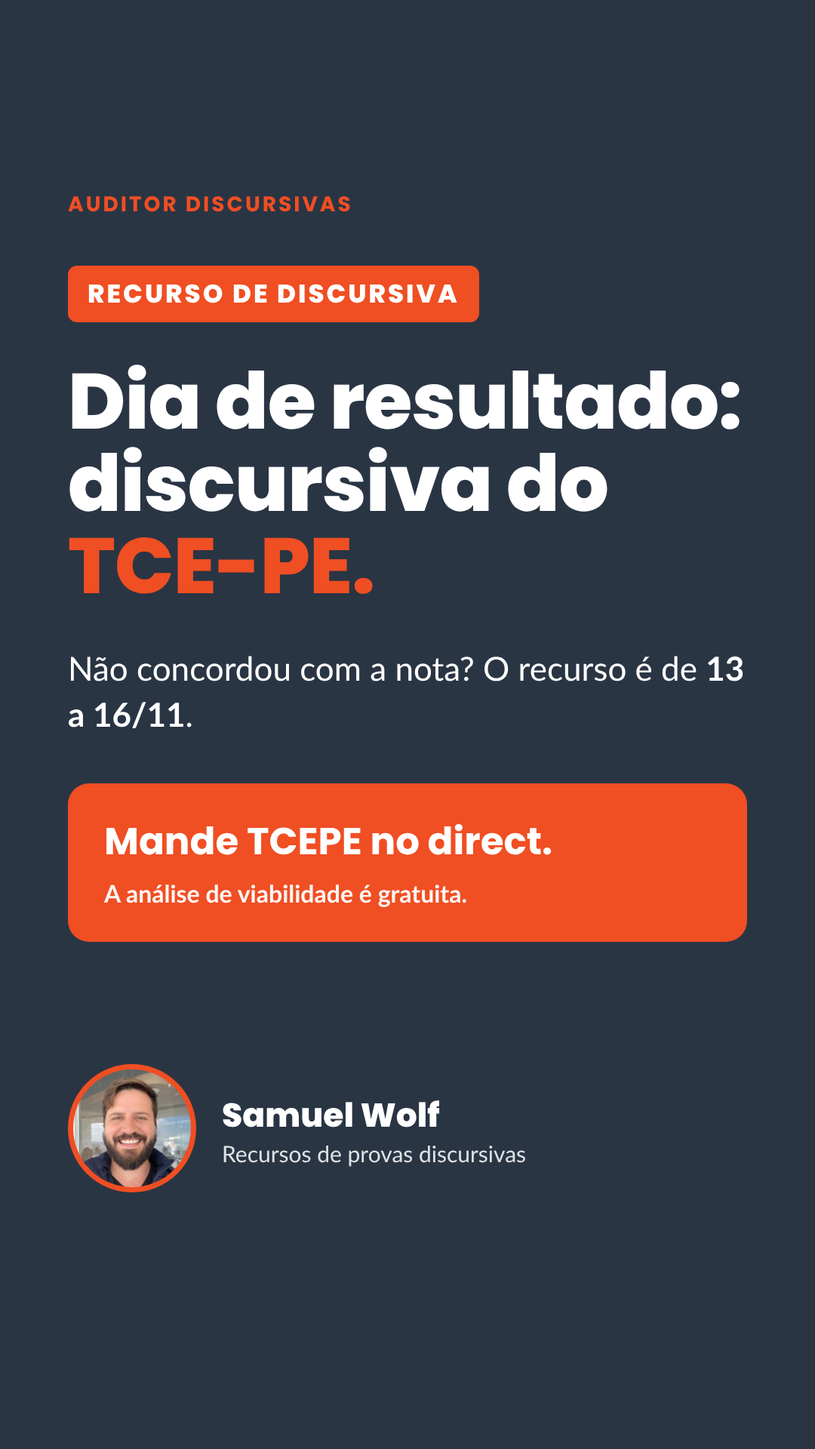
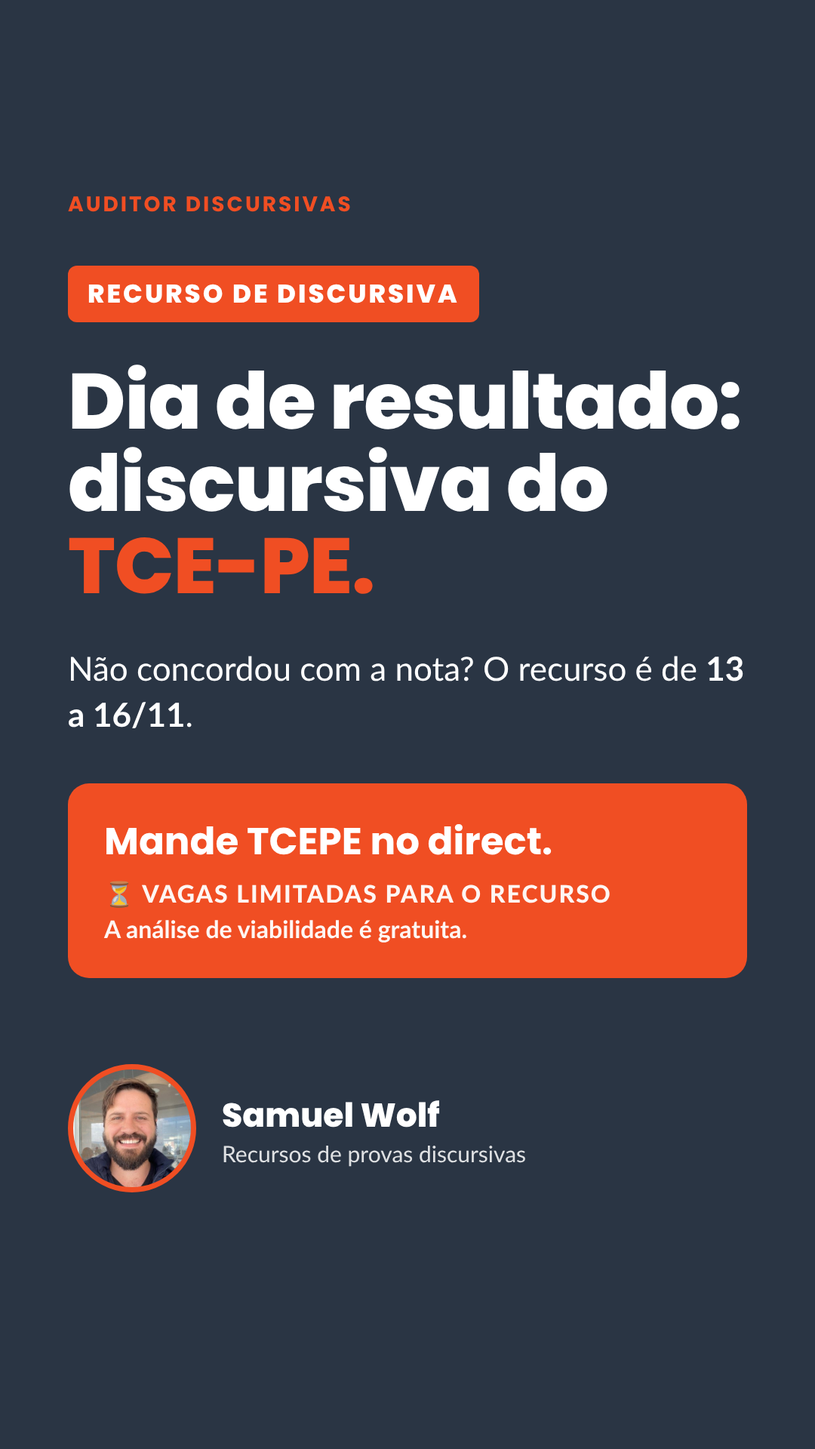
TCE-PE D-7/D-1/D: vagas limitadas para o recurso (Samuel, 02/11)
Claude-Session: https://claude.ai/code/session_01DzGKEj4kViGeh2DgZ7c7i9

Changed region(s): [[0.0611, 0.5938, 0.9167, 0.6875]]

diff --git a/fontes/campanha-recurso-tcepe-d7-d1-d/carrossel_d.html b/fontes/campanha-recurso-tcepe-d7-d1-d/carrossel_d.html
@@ -54,4 +54,4 @@ p.mid{font-size:38px;line-height:1.45}
 .st.claro{background:var(--creme);color:var(--navy)}
 .st.claro .op.a{background:#fff;color:var(--navy);border:3px solid var(--navy)}
 .s.claro .cred{opacity:1}
-</style></head><body><section class="s navy"><div class="top"><span class="wm">AUDITOR DISCURSIVAS</span><span class="ct">01 / 04</span></div><div class="sp"></div><div class="selo">RECURSO DE DISCURSIVA</div><h1>Não concorda com a nota da sua discursiva do <em>TCE-PE?</em></h1><div class="chips"><span class="chip">TCE-PE</span><span class="chip">FGV</span><span class="chip">Recurso 13 a 16/11</span></div><p class="big"><b>Você ainda tem chance.</b> O recurso vai de 13 a 16/11.</p><div class="sp"></div><div class="rod"><span>@auditor_discursivas</span><span class="sv">Arraste →</span></div></section><section class="s claro" style="justify-content:center"><div class="top"><span class="wm">AUDITOR DISCURSIVAS</span><span class="ct">02 / 04</span></div><h2>Como funciona <em>comigo</em></h2><ul class="lista"><li><span class="num">1</span><span>Você me manda <b>TCEPE</b>, o cargo e a sua nota de cada item</span></li><li><span class="num">2</span><span>Faço a <b>análise de viabilidade gratuita</b>: sua resposta × espelho</span></li><li><span class="num">3</span><span>Se houver fundamento, eu <b>redijo o recurso</b> item por item, dentro do prazo</span></li></ul><div class="card">Questão discursiva: <b>R$ 350</b> · Peça técnica: <b>R$ 700</b>. A análise de viabilidade é gratuita.</div><div class="rod"><span>@auditor_discursivas</span><span class="sv">Salvar →</span></div></section><section class="s claro" style="justify-content:center"><div class="top"><span class="wm">AUDITOR DISCURSIVAS</span><span class="ct">03 / 04</span></div><h2>4 dias, com <em>fim de semana</em> no meio</h2><div class="tl"><div class="ev"><span class="k">sex 13/11</span><span>Abre o recurso</span></div><div class="ev"><span class="k">sáb 14 e dom 15</span><span>Prazo correndo</span></div><div class="ev d"><span class="k">seg 16/11</span><span><b>Último dia</b></span></div></div><div class="card"><b>Quanto antes você mandar, mais tempo para fundamentar.</b> Depois de 16/11, essa correção não se discute mais.</div><div class="rod"><span>@auditor_discursivas</span><span class="sv">Salvar →</span></div></section><section class="s claro"><div class="top"><span class="wm">AUDITOR DISCURSIVAS</span><span class="ct">04 / 04</span></div><div class="sp"></div><h2>Ponto recuperado é <em>ponto na classificação.</em></h2><p class="big" style="margin:44px 0 52px">Mande agora e eu te digo se o seu recurso tem fundamento.</p><div class="box">Comente TCEPE<small>ou mande <b>TCEPE</b> no direct. A análise de viabilidade é gratuita.</small></div><div class="sp"></div><div class="autor" style="margin-top:0;align-items:center"><div class="foto" style="flex:0 0 190px;width:190px;height:190px"></div><div><b>Samuel Wolf</b><span style="display:block;color:var(--lar);opacity:1;font-weight:700;margin:4px 0 14px">Recursos de provas discursivas</span><ul class="cred"><li>✔ Engenheiro pelo ITA</li><li>✔ Auditor de Controle Externo do TCE-RJ</li><li>✔ Nomeado Auditor Fiscal da SEFAZ-RS</li><li>✔ Nomeado Auditor Fiscal da SEFIN Manaus</li></ul></div></div><div class="rod"><span>@auditor_discursivas</span><span></span></div></section><section class="st navy"><div class="wm">AUDITOR DISCURSIVAS</div><div class="selo">RECURSO DE DISCURSIVA</div><h1 style="font-size:104px">Dia de resultado: discursiva do <em>TCE-PE.</em></h1><p class="big" style="margin:50px 0 60px">Não concordou com a nota? O recurso é de <b>13 a 16/11</b>.</p><div class="box">Mande TCEPE no direct.<small>A análise de viabilidade é gratuita.</small></div><div class="autor"><div class="foto"></div><div><b>Samuel Wolf</b><span>Recursos de provas discursivas</span></div></div></section><section class="st claro"><div class="wm">AUDITOR DISCURSIVAS</div><div class="selo">RECURSO TCE-PE</div><p class="big">Recurso aberto até segunda</p><div class="big-n">16/11</div><p class="big" style="margin:30px 0 60px">Quanto antes, mais tempo para fundamentar.</p><div class="box">Mande TCEPE no direct.<small>A análise de viabilidade é gratuita.</small></div></section><section class="st claro"><div class="wm">AUDITOR DISCURSIVAS</div><div class="selo">RECURSO TCE-PE</div><p class="big">Faltam</p><div class="big-n">3 dias</div><p class="big" style="margin:30px 0 60px">O prazo termina segunda, 16/11.</p><div class="box">Mande TCEPE no direct.<small>A análise de viabilidade é gratuita.</small></div></section><section class="st claro"><div class="wm">AUDITOR DISCURSIVAS</div><div class="selo">RECURSO TCE-PE</div><p class="big">Faltam</p><div class="big-n">2 dias</div><p class="big" style="margin:30px 0 60px">Recurso bom aponta a linha da sua folha que atende ao critério do espelho.</p><div class="box">Mande TCEPE no direct.<small>A análise de viabilidade é gratuita.</small></div></section><section class="st claro"><div class="wm">AUDITOR DISCURSIVAS</div><div class="selo">RECURSO TCE-PE</div><div class="big-n" style="font-size:200px">Último dia</div><p class="big" style="margin:30px 0 60px">O recurso da discursiva do TCE-PE termina <b>hoje</b>.</p><div class="box">Mande TCEPE no direct.<small>A análise de viabilidade é gratuita.</small></div><div class="autor"><div class="foto"></div><div><b>Samuel Wolf</b><span>Recursos de provas discursivas</span></div></div></section></body></html>
+</style></head><body><section class="s navy"><div class="top"><span class="wm">AUDITOR DISCURSIVAS</span><span class="ct">01 / 04</span></div><div class="sp"></div><div class="selo">RECURSO DE DISCURSIVA</div><h1>Não concorda com a nota da sua discursiva do <em>TCE-PE?</em></h1><div class="chips"><span class="chip">TCE-PE</span><span class="chip">FGV</span><span class="chip">Recurso 13 a 16/11</span></div><p class="big"><b>Você ainda tem chance.</b> O recurso vai de 13 a 16/11.</p><div class="sp"></div><div class="rod"><span>@auditor_discursivas</span><span class="sv">Arraste →</span></div></section><section class="s claro" style="justify-content:center"><div class="top"><span class="wm">AUDITOR DISCURSIVAS</span><span class="ct">02 / 04</span></div><h2>Como funciona <em>comigo</em></h2><ul class="lista"><li><span class="num">1</span><span>Você me manda <b>TCEPE</b>, o cargo e a sua nota de cada item</span></li><li><span class="num">2</span><span>Faço a <b>análise de viabilidade gratuita</b>: sua resposta × espelho</span></li><li><span class="num">3</span><span>Se houver fundamento, eu <b>redijo o recurso</b> item por item, dentro do prazo</span></li></ul><div class="card">Questão discursiva: <b>R$ 350</b> · Peça técnica: <b>R$ 700</b>. A análise de viabilidade é gratuita.</div><div class="rod"><span>@auditor_discursivas</span><span class="sv">Salvar →</span></div></section><section class="s claro" style="justify-content:center"><div class="top"><span class="wm">AUDITOR DISCURSIVAS</span><span class="ct">03 / 04</span></div><h2>4 dias, com <em>fim de semana</em> no meio</h2><div class="tl"><div class="ev"><span class="k">sex 13/11</span><span>Abre o recurso</span></div><div class="ev"><span class="k">sáb 14 e dom 15</span><span>Prazo correndo</span></div><div class="ev d"><span class="k">seg 16/11</span><span><b>Último dia</b></span></div></div><div class="card"><b>Quanto antes você mandar, mais tempo para fundamentar.</b> Depois de 16/11, essa correção não se discute mais.</div><div class="rod"><span>@auditor_discursivas</span><span class="sv">Salvar →</span></div></section><section class="s claro"><div class="top"><span class="wm">AUDITOR DISCURSIVAS</span><span class="ct">04 / 04</span></div><div class="sp"></div><h2>Ponto recuperado é <em>ponto na classificação.</em></h2><p class="big" style="margin:44px 0 52px">Mande agora e eu te digo se o seu recurso tem fundamento.</p><div class="box">Comente TCEPE<small><span style="display:block;font-weight:900;letter-spacing:2px;margin:4px 0 6px">⏳ VAGAS LIMITADAS PARA O RECURSO</span>ou mande <b>TCEPE</b> no direct. A análise de viabilidade é gratuita.</small></div><div class="sp"></div><div class="autor" style="margin-top:0;align-items:center"><div class="foto" style="flex:0 0 190px;width:190px;height:190px"></div><div><b>Samuel Wolf</b><span style="display:block;color:var(--lar);opacity:1;font-weight:700;margin:4px 0 14px">Recursos de provas discursivas</span><ul class="cred"><li>✔ Engenheiro pelo ITA</li><li>✔ Auditor de Controle Externo do TCE-RJ</li><li>✔ Nomeado Auditor Fiscal da SEFAZ-RS</li><li>✔ Nomeado Auditor Fiscal da SEFIN Manaus</li></ul></div></div><div class="rod"><span>@auditor_discursivas</span><span></span></div></section><section class="st navy"><div class="wm">AUDITOR DISCURSIVAS</div><div class="selo">RECURSO DE DISCURSIVA</div><h1 style="font-size:104px">Dia de resultado: discursiva do <em>TCE-PE.</em></h1><p class="big" style="margin:50px 0 60px">Não concordou com a nota? O recurso é de <b>13 a 16/11</b>.</p><div class="box">Mande TCEPE no direct.<small><span style="display:block;font-weight:900;letter-spacing:2px;margin:4px 0 6px">⏳ VAGAS LIMITADAS PARA O RECURSO</span>A análise de viabilidade é gratuita.</small></div><div class="autor"><div class="foto"></div><div><b>Samuel Wolf</b><span>Recursos de provas discursivas</span></div></div></section><section class="st claro"><div class="wm">AUDITOR DISCURSIVAS</div><div class="selo">RECURSO TCE-PE</div><p class="big">Recurso aberto até segunda</p><div class="big-n">16/11</div><p class="big" style="margin:30px 0 60px">Quanto antes, mais tempo para fundamentar.</p><div class="box">Mande TCEPE no direct.<small><span style="display:block;font-weight:900;letter-spacing:2px;margin:4px 0 6px">⏳ VAGAS LIMITADAS PARA O RECURSO</span>A análise de viabilidade é gratuita.</small></div></section><section class="st claro"><div class="wm">AUDITOR DISCURSIVAS</div><div class="selo">RECURSO TCE-PE</div><p class="big">Faltam</p><div class="big-n">3 dias</div><p class="big" style="margin:30px 0 60px">O prazo termina segunda, 16/11.</p><div class="box">Mande TCEPE no direct.<small><span style="display:block;font-weight:900;letter-spacing:2px;margin:4px 0 6px">⏳ VAGAS LIMITADAS PARA O RECURSO</span>A análise de viabilidade é gratuita.</small></div></section><section class="st claro"><div class="wm">AUDITOR DISCURSIVAS</div><div class="selo">RECURSO TCE-PE</div><p class="big">Faltam</p><div class="big-n">2 dias</div><p class="big" style="margin:30px 0 60px">Recurso bom aponta a linha da sua folha que atende ao critério do espelho.</p><div class="box">Mande TCEPE no direct.<small><span style="display:block;font-weight:900;letter-spacing:2px;margin:4px 0 6px">⏳ VAGAS LIMITADAS PARA O RECURSO</span>A análise de viabilidade é gratuita.</small></div></section><section class="st claro"><div class="wm">AUDITOR DISCURSIVAS</div><div class="selo">RECURSO TCE-PE</div><div class="big-n" style="font-size:170px">Último dia</div><p class="big" style="margin:30px 0 60px">O recurso da discursiva do TCE-PE termina <b>hoje</b>.</p><div class="box">Mande TCEPE no direct.<small><span style="display:block;font-weight:900;letter-spacing:2px;margin:4px 0 6px">⏳ VAGAS LIMITADAS PARA O RECURSO</span>A análise de viabilidade é gratuita.</small></div><div class="autor"><div class="foto"></div><div><b>Samuel Wolf</b><span>Recursos de provas discursivas</span></div></div></section></body></html>

diff --git a/fontes/campanha-recurso-tcepe-d7-d1-d/carrossel_d7.html b/fontes/campanha-recurso-tcepe-d7-d1-d/carrossel_d7.html
@@ -54,4 +54,4 @@ p.mid{font-size:38px;line-height:1.45}
 .st.claro{background:var(--creme);color:var(--navy)}
 .st.claro .op.a{background:#fff;color:var(--navy);border:3px solid var(--navy)}
 .s.claro .cred{opacity:1}
-</style></head><body><section class="s navy"><div class="top"><span class="wm">AUDITOR DISCURSIVAS</span><span class="ct">01 / 04</span></div><div class="sp"></div><div class="selo">RECURSO DE DISCURSIVA</div><h1>TCE-PE: a nota da discursiva sai em <em>7 dias.</em></h1><div class="chips"><span class="chip">TCE-PE</span><span class="chip">FGV</span><span class="chip">Cargos reaplicados</span></div><p class="big">E o recurso só vale de <b>13 a 16/11</b>. Quem se prepara agora chega pronto.</p><div class="sp"></div><div class="rod"><span>@auditor_discursivas</span><span class="sv">Arraste →</span></div></section><section class="s claro" style="justify-content:center"><div class="top"><span class="wm">AUDITOR DISCURSIVAS</span><span class="ct">02 / 04</span></div><h2>Na FGV, a janela de recurso é <em>uma só.</em></h2><div class="tl"><div class="ev"><span class="k">12/11</span><span><b>Resultado preliminar</b> da discursiva</span></div><div class="ev d"><span class="k">13 a 16/11</span><span><b>Recurso</b> contra a nota da discursiva</span></div><div class="ev"><span class="k">08/12</span><span><b>Resultado definitivo</b> e resultado final</span></div></div><div class="card">Não há padrão preliminar com recurso próprio, como no Cebraspe. <b>Você vê a nota e recorre no mesmo prazo curto.</b></div><div class="rod"><span>@auditor_discursivas</span><span class="sv">Salvar →</span></div></section><section class="s claro" style="justify-content:center"><div class="top"><span class="wm">AUDITOR DISCURSIVAS</span><span class="ct">03 / 04</span></div><h2>Use esta semana para <em>adiantar o recurso</em></h2><ul class="lista"><li><span class="num">1</span><span>Leia no edital as <b>regras do recurso</b></span></li><li><span class="num">2</span><span>Liste as <b>normas, artigos e acórdãos</b> que você citou</span></li><li><span class="num">3</span><span>Reserve <b>13 a 16/11</b> na agenda</span></li></ul><div class="card"><b>Ponto recuperado no recurso vale tanto quanto questão acertada na objetiva.</b></div><div class="rod"><span>@auditor_discursivas</span><span class="sv">Salvar →</span></div></section><section class="s claro"><div class="top"><span class="wm">AUDITOR DISCURSIVAS</span><span class="ct">04 / 04</span></div><div class="sp"></div><h2>Quer chegar ao dia 13 <em>com o recurso encaminhado?</em></h2><p class="big" style="margin:44px 0 52px">Eu leio a sua resposta contra o espelho e digo se o recurso tem fundamento.</p><div class="box">Comente TCEPE<small>ou mande <b>TCEPE</b> no direct. A análise de viabilidade é gratuita.</small></div><div class="sp"></div><div class="autor" style="margin-top:0;align-items:center"><div class="foto" style="flex:0 0 190px;width:190px;height:190px"></div><div><b>Samuel Wolf</b><span style="display:block;color:var(--lar);opacity:1;font-weight:700;margin:4px 0 14px">Recursos de provas discursivas</span><ul class="cred"><li>✔ Engenheiro pelo ITA</li><li>✔ Auditor de Controle Externo do TCE-RJ</li><li>✔ Nomeado Auditor Fiscal da SEFAZ-RS</li><li>✔ Nomeado Auditor Fiscal da SEFIN Manaus</li></ul></div></div><div class="rod"><span>@auditor_discursivas</span><span></span></div></section><section class="st navy"><div class="wm">AUDITOR DISCURSIVAS</div><div class="selo">RECURSO DE DISCURSIVA</div><p class="big">Discursiva do TCE-PE</p><div class="big-n">7 dias</div><p class="big" style="margin:30px 0 60px">para a nota sair (12/11). O recurso é só de <b>13 a 16/11</b>.</p><div class="box">Mande TCEPE no direct.<small>A análise de viabilidade é gratuita.</small></div></section><section class="st claro"><div class="wm">AUDITOR DISCURSIVAS</div><h1 style="font-size:96px">Como você acha que foi na <em>discursiva do TCE-PE?</em></h1><div class="opt"><div class="op a">💪 Fui bem</div><div class="op b">😬 Posso precisar de recurso</div></div><p class="mid" style="margin-top:60px">Responda no direct com a sua opção. Se for a segunda, mande <b>TCEPE</b>.</p></section><section class="st claro"><div class="wm">AUDITOR DISCURSIVAS</div><h1 style="font-size:92px">Adiante o recurso <em>nesta semana</em></h1><ul class="lista"><li><span class="num">1</span><span>Leia as regras do recurso</span></li><li><span class="num">2</span><span>Liste as normas citadas</span></li><li><span class="num">3</span><span>Reserve 13 a 16/11</span></li></ul><div class="sp"></div><div class="box">Mande TCEPE no direct.<small>A análise de viabilidade é gratuita.</small></div><div class="autor"><div class="foto"></div><div><b>Samuel Wolf</b><span>Recursos de provas discursivas</span></div></div></section></body></html>
+</style></head><body><section class="s navy"><div class="top"><span class="wm">AUDITOR DISCURSIVAS</span><span class="ct">01 / 04</span></div><div class="sp"></div><div class="selo">RECURSO DE DISCURSIVA</div><h1>TCE-PE: a nota da discursiva sai em <em>7 dias.</em></h1><div class="chips"><span class="chip">TCE-PE</span><span class="chip">FGV</span><span class="chip">Cargos reaplicados</span></div><p class="big">E o recurso só vale de <b>13 a 16/11</b>. Quem se prepara agora chega pronto.</p><div class="sp"></div><div class="rod"><span>@auditor_discursivas</span><span class="sv">Arraste →</span></div></section><section class="s claro" style="justify-content:center"><div class="top"><span class="wm">AUDITOR DISCURSIVAS</span><span class="ct">02 / 04</span></div><h2>Na FGV, a janela de recurso é <em>uma só.</em></h2><div class="tl"><div class="ev"><span class="k">12/11</span><span><b>Resultado preliminar</b> da discursiva</span></div><div class="ev d"><span class="k">13 a 16/11</span><span><b>Recurso</b> contra a nota da discursiva</span></div><div class="ev"><span class="k">08/12</span><span><b>Resultado definitivo</b> e resultado final</span></div></div><div class="card">Não há padrão preliminar com recurso próprio, como no Cebraspe. <b>Você vê a nota e recorre no mesmo prazo curto.</b></div><div class="rod"><span>@auditor_discursivas</span><span class="sv">Salvar →</span></div></section><section class="s claro" style="justify-content:center"><div class="top"><span class="wm">AUDITOR DISCURSIVAS</span><span class="ct">03 / 04</span></div><h2>Use esta semana para <em>adiantar o recurso</em></h2><ul class="lista"><li><span class="num">1</span><span>Leia no edital as <b>regras do recurso</b></span></li><li><span class="num">2</span><span>Liste as <b>normas, artigos e acórdãos</b> que você citou</span></li><li><span class="num">3</span><span>Reserve <b>13 a 16/11</b> na agenda</span></li></ul><div class="card"><b>Ponto recuperado no recurso vale tanto quanto questão acertada na objetiva.</b></div><div class="rod"><span>@auditor_discursivas</span><span class="sv">Salvar →</span></div></section><section class="s claro"><div class="top"><span class="wm">AUDITOR DISCURSIVAS</span><span class="ct">04 / 04</span></div><div class="sp"></div><h2>Quer chegar ao dia 13 <em>com o recurso encaminhado?</em></h2><p class="big" style="margin:44px 0 52px">Eu leio a sua resposta contra o espelho e digo se o recurso tem fundamento.</p><div class="box">Comente TCEPE<small><span style="display:block;font-weight:900;letter-spacing:2px;margin:4px 0 6px">⏳ VAGAS LIMITADAS PARA O RECURSO</span>ou mande <b>TCEPE</b> no direct. A análise de viabilidade é gratuita.</small></div><div class="sp"></div><div class="autor" style="margin-top:0;align-items:center"><div class="foto" style="flex:0 0 190px;width:190px;height:190px"></div><div><b>Samuel Wolf</b><span style="display:block;color:var(--lar);opacity:1;font-weight:700;margin:4px 0 14px">Recursos de provas discursivas</span><ul class="cred"><li>✔ Engenheiro pelo ITA</li><li>✔ Auditor de Controle Externo do TCE-RJ</li><li>✔ Nomeado Auditor Fiscal da SEFAZ-RS</li><li>✔ Nomeado Auditor Fiscal da SEFIN Manaus</li></ul></div></div><div class="rod"><span>@auditor_discursivas</span><span></span></div></section><section class="st navy"><div class="wm">AUDITOR DISCURSIVAS</div><div class="selo">RECURSO DE DISCURSIVA</div><p class="big">Discursiva do TCE-PE</p><div class="big-n">7 dias</div><p class="big" style="margin:30px 0 60px">para a nota sair (12/11). O recurso é só de <b>13 a 16/11</b>.</p><div class="box">Mande TCEPE no direct.<small><span style="display:block;font-weight:900;letter-spacing:2px;margin:4px 0 6px">⏳ VAGAS LIMITADAS PARA O RECURSO</span>A análise de viabilidade é gratuita.</small></div></section><section class="st claro"><div class="wm">AUDITOR DISCURSIVAS</div><h1 style="font-size:96px">Como você acha que foi na <em>discursiva do TCE-PE?</em></h1><div class="opt"><div class="op a">💪 Fui bem</div><div class="op b">😬 Posso precisar de recurso</div></div><p class="mid" style="margin-top:60px">Responda no direct com a sua opção. Se for a segunda, mande <b>TCEPE</b>.</p></section><section class="st claro"><div class="wm">AUDITOR DISCURSIVAS</div><h1 style="font-size:92px">Adiante o recurso <em>nesta semana</em></h1><ul class="lista"><li><span class="num">1</span><span>Leia as regras do recurso</span></li><li><span class="num">2</span><span>Liste as normas citadas</span></li><li><span class="num">3</span><span>Reserve 13 a 16/11</span></li></ul><div class="sp"></div><div class="box">Mande TCEPE no direct.<small><span style="display:block;font-weight:900;letter-spacing:2px;margin:4px 0 6px">⏳ VAGAS LIMITADAS PARA O RECURSO</span>A análise de viabilidade é gratuita.</small></div><div class="autor"><div class="foto"></div><div><b>Samuel Wolf</b><span>Recursos de provas discursivas</span></div></div></section></body></html>

diff --git a/fontes/campanha-recurso-tcepe-d7-d1-d/carrossel_d1.html b/fontes/campanha-recurso-tcepe-d7-d1-d/carrossel_d1.html
@@ -54,4 +54,4 @@ p.mid{font-size:38px;line-height:1.45}
 .st.claro{background:var(--creme);color:var(--navy)}
 .st.claro .op.a{background:#fff;color:var(--navy);border:3px solid var(--navy)}
 .s.claro .cred{opacity:1}
-</style></head><body><section class="s navy"><div class="top"><span class="wm">AUDITOR DISCURSIVAS</span><span class="ct">01 / 04</span></div><div class="sp"></div><div class="selo">RECURSO DE DISCURSIVA</div><h1>TCE-PE: a nota da discursiva sai <em>amanhã.</em></h1><div class="chips"><span class="chip">TCE-PE</span><span class="chip">FGV</span><span class="chip">Recurso 13 a 16/11</span></div><p class="big">São só 4 dias de prazo. <b>Deixe tudo pronto hoje.</b></p><div class="sp"></div><div class="rod"><span>@auditor_discursivas</span><span class="sv">Arraste →</span></div></section><section class="s claro" style="justify-content:center"><div class="top"><span class="wm">AUDITOR DISCURSIVAS</span><span class="ct">02 / 04</span></div><h2>Checklist para <em>hoje</em></h2><ul class="lista"><li><span class="num">1</span><span>As <b>regras do recurso</b> no edital, já lidas</span></li><li><span class="num">2</span><span>As <b>normas e fundamentos</b> que você usou</span></li><li><span class="num">3</span><span><b>13 a 16/11</b> reservados na agenda</span></li></ul><div class="card">Quando a nota sair, compare <b>item por item</b> com o espelho da banca.</div><div class="rod"><span>@auditor_discursivas</span><span class="sv">Salvar →</span></div></section><section class="s claro" style="justify-content:center"><div class="top"><span class="wm">AUDITOR DISCURSIVAS</span><span class="ct">03 / 04</span></div><h2>Onde o recurso <em>tem argumento</em></h2><ul class="lista"><li><span class="num">1</span><span>Você <b>abordou o item</b> e ele veio zerado ou parcial</span></li><li><span class="num">2</span><span>Você usou <b>fundamento equivalente</b> ao do espelho</span></li><li><span class="num">3</span><span>Houve desconto de forma <b>sem erro identificável</b></span></li></ul><div class="card">Recurso bom não reclama da nota: <b>aponta a linha da sua folha que atende ao critério.</b></div><div class="rod"><span>@auditor_discursivas</span><span class="sv">Salvar →</span></div></section><section class="s claro"><div class="top"><span class="wm">AUDITOR DISCURSIVAS</span><span class="ct">04 / 04</span></div><div class="sp"></div><h2>Saiu e não concordou? <em>Fala comigo.</em></h2><p class="big" style="margin:44px 0 52px">A análise começa assim que você me mandar a sua nota.</p><div class="box">Comente TCEPE<small>ou mande <b>TCEPE</b> no direct. A análise de viabilidade é gratuita.</small></div><div class="sp"></div><div class="autor" style="margin-top:0;align-items:center"><div class="foto" style="flex:0 0 190px;width:190px;height:190px"></div><div><b>Samuel Wolf</b><span style="display:block;color:var(--lar);opacity:1;font-weight:700;margin:4px 0 14px">Recursos de provas discursivas</span><ul class="cred"><li>✔ Engenheiro pelo ITA</li><li>✔ Auditor de Controle Externo do TCE-RJ</li><li>✔ Nomeado Auditor Fiscal da SEFAZ-RS</li><li>✔ Nomeado Auditor Fiscal da SEFIN Manaus</li></ul></div></div><div class="rod"><span>@auditor_discursivas</span><span></span></div></section><section class="st navy"><div class="wm">AUDITOR DISCURSIVAS</div><div class="selo">RECURSO DE DISCURSIVA</div><h1 style="font-size:110px">Amanhã sai a nota da discursiva do <em>TCE-PE.</em></h1><p class="big" style="margin:50px 0 60px">Recurso: <b>13 a 16/11</b>.</p><div class="box">Mande TCEPE no direct.<small>A análise de viabilidade é gratuita.</small></div></section><section class="st claro"><div class="wm">AUDITOR DISCURSIVAS</div><h1 style="font-size:96px">Checklist para <em>hoje</em></h1><ul class="lista"><li><span class="num">1</span><span>Regras do recurso lidas</span></li><li><span class="num">2</span><span>Normas e fundamentos listados</span></li><li><span class="num">3</span><span>13 a 16/11 na agenda</span></li></ul></section><section class="st claro"><div class="wm">AUDITOR DISCURSIVAS</div><h1 style="font-size:92px">Não concordou com a nota? <em>Fala comigo.</em></h1><p class="big" style="margin:50px 0 60px">Eu leio a sua resposta contra o espelho e digo se o recurso tem fundamento.</p><div class="box">Mande TCEPE no direct.<small>A análise de viabilidade é gratuita.</small></div><div class="autor"><div class="foto"></div><div><b>Samuel Wolf</b><span>Recursos de provas discursivas</span></div></div></section></body></html>
+</style></head><body><section class="s navy"><div class="top"><span class="wm">AUDITOR DISCURSIVAS</span><span class="ct">01 / 04</span></div><div class="sp"></div><div class="selo">RECURSO DE DISCURSIVA</div><h1>TCE-PE: a nota da discursiva sai <em>amanhã.</em></h1><div class="chips"><span class="chip">TCE-PE</span><span class="chip">FGV</span><span class="chip">Recurso 13 a 16/11</span></div><p class="big">São só 4 dias de prazo. <b>Deixe tudo pronto hoje.</b></p><div class="sp"></div><div class="rod"><span>@auditor_discursivas</span><span class="sv">Arraste →</span></div></section><section class="s claro" style="justify-content:center"><div class="top"><span class="wm">AUDITOR DISCURSIVAS</span><span class="ct">02 / 04</span></div><h2>Checklist para <em>hoje</em></h2><ul class="lista"><li><span class="num">1</span><span>As <b>regras do recurso</b> no edital, já lidas</span></li><li><span class="num">2</span><span>As <b>normas e fundamentos</b> que você usou</span></li><li><span class="num">3</span><span><b>13 a 16/11</b> reservados na agenda</span></li></ul><div class="card">Quando a nota sair, compare <b>item por item</b> com o espelho da banca.</div><div class="rod"><span>@auditor_discursivas</span><span class="sv">Salvar →</span></div></section><section class="s claro" style="justify-content:center"><div class="top"><span class="wm">AUDITOR DISCURSIVAS</span><span class="ct">03 / 04</span></div><h2>Onde o recurso <em>tem argumento</em></h2><ul class="lista"><li><span class="num">1</span><span>Você <b>abordou o item</b> e ele veio zerado ou parcial</span></li><li><span class="num">2</span><span>Você usou <b>fundamento equivalente</b> ao do espelho</span></li><li><span class="num">3</span><span>Houve desconto de forma <b>sem erro identificável</b></span></li></ul><div class="card">Recurso bom não reclama da nota: <b>aponta a linha da sua folha que atende ao critério.</b></div><div class="rod"><span>@auditor_discursivas</span><span class="sv">Salvar →</span></div></section><section class="s claro"><div class="top"><span class="wm">AUDITOR DISCURSIVAS</span><span class="ct">04 / 04</span></div><div class="sp"></div><h2>Saiu e não concordou? <em>Fala comigo.</em></h2><p class="big" style="margin:44px 0 52px">A análise começa assim que você me mandar a sua nota.</p><div class="box">Comente TCEPE<small><span style="display:block;font-weight:900;letter-spacing:2px;margin:4px 0 6px">⏳ VAGAS LIMITADAS PARA O RECURSO</span>ou mande <b>TCEPE</b> no direct. A análise de viabilidade é gratuita.</small></div><div class="sp"></div><div class="autor" style="margin-top:0;align-items:center"><div class="foto" style="flex:0 0 190px;width:190px;height:190px"></div><div><b>Samuel Wolf</b><span style="display:block;color:var(--lar);opacity:1;font-weight:700;margin:4px 0 14px">Recursos de provas discursivas</span><ul class="cred"><li>✔ Engenheiro pelo ITA</li><li>✔ Auditor de Controle Externo do TCE-RJ</li><li>✔ Nomeado Auditor Fiscal da SEFAZ-RS</li><li>✔ Nomeado Auditor Fiscal da SEFIN Manaus</li></ul></div></div><div class="rod"><span>@auditor_discursivas</span><span></span></div></section><section class="st navy"><div class="wm">AUDITOR DISCURSIVAS</div><div class="selo">RECURSO DE DISCURSIVA</div><h1 style="font-size:110px">Amanhã sai a nota da discursiva do <em>TCE-PE.</em></h1><p class="big" style="margin:50px 0 60px">Recurso: <b>13 a 16/11</b>.</p><div class="box">Mande TCEPE no direct.<small><span style="display:block;font-weight:900;letter-spacing:2px;margin:4px 0 6px">⏳ VAGAS LIMITADAS PARA O RECURSO</span>A análise de viabilidade é gratuita.</small></div></section><section class="st claro"><div class="wm">AUDITOR DISCURSIVAS</div><h1 style="font-size:96px">Checklist para <em>hoje</em></h1><ul class="lista"><li><span class="num">1</span><span>Regras do recurso lidas</span></li><li><span class="num">2</span><span>Normas e fundamentos listados</span></li><li><span class="num">3</span><span>13 a 16/11 na agenda</span></li></ul></section><section class="st claro"><div class="wm">AUDITOR DISCURSIVAS</div><h1 style="font-size:92px">Não concordou com a nota? <em>Fala comigo.</em></h1><p class="big" style="margin:50px 0 60px">Eu leio a sua resposta contra o espelho e digo se o recurso tem fundamento.</p><div class="box">Mande TCEPE no direct.<small><span style="display:block;font-weight:900;letter-spacing:2px;margin:4px 0 6px">⏳ VAGAS LIMITADAS PARA O RECURSO</span>A análise de viabilidade é gratuita.</small></div><div class="autor"><div class="foto"></div><div><b>Samuel Wolf</b><span>Recursos de provas discursivas</span></div></div></section></body></html>

diff --git a/fontes/campanha-recurso-tcepe-d7-d1-d/gerar.py b/fontes/campanha-recurso-tcepe-d7-d1-d/gerar.py
@@ -3,7 +3,7 @@ import pathlib
 
 CSS = pathlib.Path(__file__).with_name('base.css').read_text(encoding='utf-8')
 ROD = '<div class="rod"><span>@auditor_discursivas</span><span class="sv">{}</span></div>'
-CTA_SMALL = 'ou mande <b>TCEPE</b> no direct. A análise de viabilidade é gratuita.'
+CTA_SMALL = '<span style="display:block;font-weight:900;letter-spacing:2px;margin:4px 0 6px">⏳ VAGAS LIMITADAS PARA O RECURSO</span>ou mande <b>TCEPE</b> no direct. A análise de viabilidade é gratuita.'
 AUTOR = ('<div class="autor" style="margin-top:0;align-items:center"><div class="foto" style="flex:0 0 190px;width:190px;height:190px"></div>'
          '<div><b>Samuel Wolf</b><span style="display:block;color:var(--lar);opacity:1;font-weight:700;margin:4px 0 14px">Recursos de provas discursivas</span>'
          '<ul class="cred"><li>✔ Engenheiro pelo ITA</li><li>✔ Auditor de Controle Externo do TCE-RJ</li>'
@@ -43,7 +43,7 @@ def story(corpo, tom='claro'):
     return f'<section class="st {tom}"><div class="wm">AUDITOR DISCURSIVAS</div>{corpo}</section>'
 
 
-BOX_ST = '<div class="box">Mande TCEPE no direct.<small>A análise de viabilidade é gratuita.</small></div>'
+BOX_ST = '<div class="box">Mande TCEPE no direct.<small><span style="display:block;font-weight:900;letter-spacing:2px;margin:4px 0 6px">⏳ VAGAS LIMITADAS PARA O RECURSO</span>A análise de viabilidade é gratuita.</small></div>'
 CHIPS = ['TCE-PE', 'FGV', 'Cargos reaplicados']
 
 CAMP = {
@@ -114,7 +114,7 @@ CAMP = {
           '<p class="big" style="margin:30px 0 60px">O prazo termina segunda, 16/11.</p>' + BOX_ST),
     story('<div class="selo">RECURSO TCE-PE</div><p class="big">Faltam</p><div class="big-n">2 dias</div>'
           '<p class="big" style="margin:30px 0 60px">Recurso bom aponta a linha da sua folha que atende ao critério do espelho.</p>' + BOX_ST),
-    story('<div class="selo">RECURSO TCE-PE</div><div class="big-n" style="font-size:200px">Último dia</div>'
+    story('<div class="selo">RECURSO TCE-PE</div><div class="big-n" style="font-size:170px">Último dia</div>'
           '<p class="big" style="margin:30px 0 60px">O recurso da discursiva do TCE-PE termina <b>hoje</b>.</p>' + BOX_ST + AUTOR_ST),
  ]),
 }
